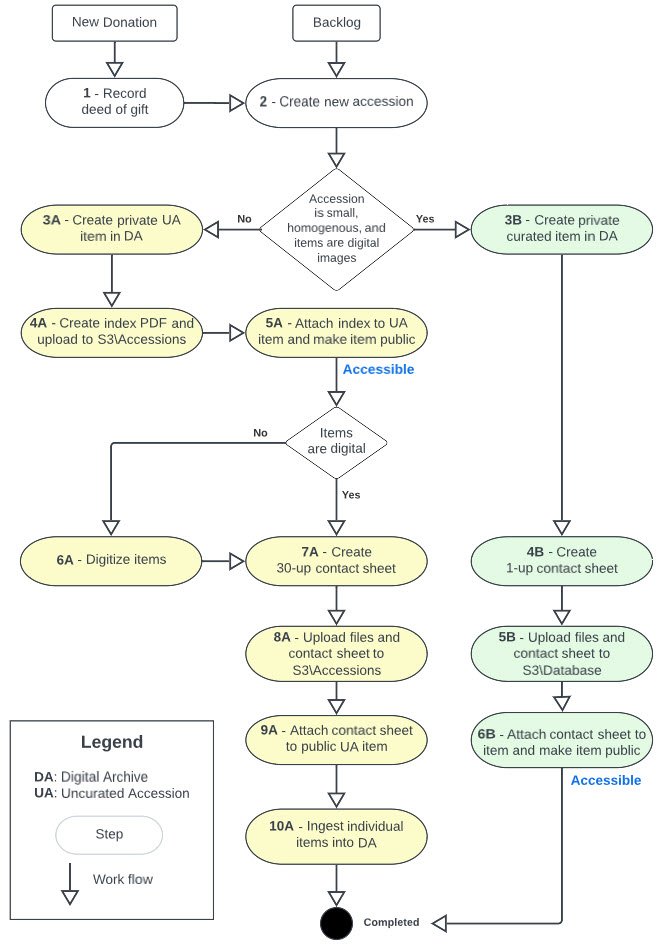
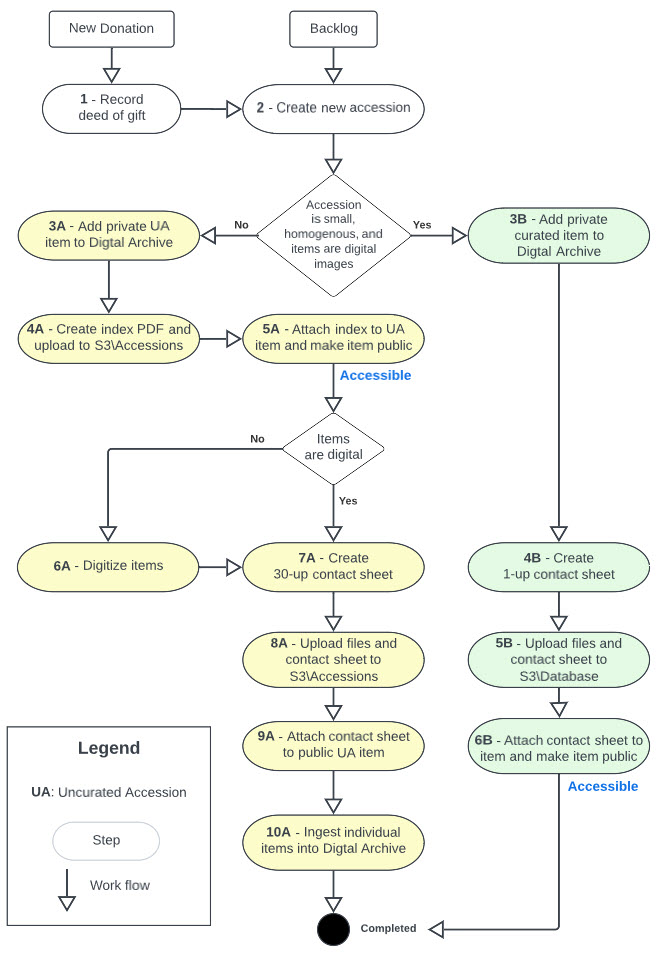
Updates.

diff --git a/digital-archive/docs/archivist/accessioning.md b/digital-archive/docs/archivist/accessioning.md
@@ -8,6 +8,8 @@
 At SWHPL, accessioning is the process of transferring archival materials from a donor or from the backlog into the Library's accessions database, and eventually,
 into the Digital Archive where they become publicly accessible.
 
+---
+
 ## Accessioning Goals
 Accessioning is much more than a bookkeeping process. It is how SWHPL assists researchers and honors donors by making contributions accessible to the public as quickly
 as possible. 
@@ -38,6 +40,8 @@ and ingest items into the Digital Archive. Subsequent sections in this documenta
 #### Transferability
 The accessioning process must be such that responsibility for accessioning and the Digital Archive can be transferred to a new archivist with minimal
 dependence on tribal knowledge, that is, unwritten knowledge that resides only in the minds of a few individuals.
+
+---
 
 ## Terminology
 
@@ -125,148 +129,158 @@ Uncurated Accession
 :   An accession containing items that have not yet been individually or collectively curated to derive metadata to describe them.
     Also referred to as a UA.
 
+---
+
 ## Accession components
 The diagram below ties together the discussion and terminology presented thus far. It shows the three kinds of item sources (backlog, new donation, and items created before the accession process was in place), and how those items are associated with accessions and with collections.
 
 ![Accessioning diagram](accessioning-1.jpg)
 
-## Accessioning steps
-The flowchart below shows the sequence of steps that SWHPL archivists perform as part of the accessioning process. The steps at right (shown
-in green) result in creation of a single Digital Archive item for the entire accession. The item's type is set to reflect the nature of
-the content, for example, `Image, Photograph`. The steps at left and in the middle (shown in yellow) also result in creation of a single Digital
-Archive item, but its type is set to `Uncurated Accession`. 
+---
+
+## Accessioning work flow
+The flowchart below shows the sequence of steps in the accessioning process.
+
+-   Yellow steps at left and middle produce a Digital Archive item for an uncurated accession.
+-   Green steps at right produce a curated Digital Archive item for the accession's images. 
+
+The process makes an accession's items publicly accessible very quickly. For an uncurated accession, only the
+index is initially accessible, but it allows the public to search the Digital Archive without having to wait
+for scanning to occur which is usually the most time-consuming step.
 
 ![Accessioning diagram](accessioning-2.jpg)
 
-The steps above show that both items have a contact sheet attached to them, but the uncurated accession item's contact sheet contains 30 thumbnails
-per page whereas each page in the curated item's contact sheet shows a single image. More importantly, the accession process for the curated item
-is complete whereas the ingestion step still awaits the uncurated accession item.
+---
 
-In both cases, the process makes the accession's items publicly accessible as quickly as possible. For the uncurated accession, only the
-index is initially accessible until the items have been scanned, but this allows the public to search the Digital Archive without having to wait
-for scanning to occur which is usually the most time-consuming step.
+## Accessioning steps
+This section explains each step in the accessioning work flow shown in the previous section.
 
-### Explanation of steps
-
+In the explanations below, `####` means the accession number.
 
 1 &ndash; Record deed of gift
-:   Procure a signed and dated gift of deed form from the donor.
+:   Procure a signed and dated deed of gift form from the donor.
 
 2 &ndash; Create new accession
 :   This step results in an accession number which will be needed in subsequent steps.
 
-    -   Add a new row to the Accessions table.
-    -   Provide values for every field for which information is available.
-    -   Write the accession number on the deed of gift form if one exists.
+    -   Open the **_New Accession Form_** in Airtable (shown in the [Accessions table](#accessions-table) section below.
+    -   Fill in all required fields.
+     -  For accessions from the archival hard drive, use the form's **_Digital Files_** selector to
+        choose the folders that are part of new accession.
+   -   Add the accession number to the deed of gift form.
 
-3A &ndash; Create private UA item in DA
+---
+
+3A &ndash; Add private UA item to Digital Archive
 :   This step results in an item identifier number which will be needed in subsequent steps.
 
     -   [Add a new item](/archivist/items/#add-a-new-item) to the Digital Archive and leave it set to
         [private](/archivist/special-features-archivist/#private-metadata-fields).
     -   Set the item's Type to `Uncurated Accession`.
     -   Set the item's Accession # to the accession number.
+    -   Provide as much metadata in other fields as is known about the accession's contents.
 
 4A &ndash; Create index PDF and upload to S3\Accessions
-:   The real work of accessioning occurs in this step. The archivist needs to assess the items in the accession and
-    create a table in a Word document that lists the contents of the accession. Depending on the nature of the
-    accession and how much time the archivist has, the table may be complete and detailed, or it may be sparse, only
+:   The real work of accessioning occurs in this step. The archivist assesses the items in the accession and
+    creates a table in a Word document that lists the contents of the accession. Depending on information available,
+    the table may be complete and detailed, or it may be sparse, only
     identifying the most significant items in the accession.
 
     When creating the index, use as many relevant keywords as possible since the text in the index will be searchable.
-    What is, or is not, in the index will determine whether someone will be able to search for and find something of
+    The words in the index will determine whether someone will be able to search for and find something of
     interest in the accession.
 
-    In the sub-steps that follow `####` means the accession number.
-
-    -   Create the index as a Word document.
+    -   Create the index as a Word document named `accession-index-####.docx`.
     -   Save the index as a PDF file named `accession-index-####.pdf`.
     -   Create a new S3 folder named `S3\Accessions\####`.
-    -   Upload the PDF file, but not the Word document, to the S3 folder.
+    -   Upload the PDF and Word files to the S3 folder.
 
 5A &ndash; Attach index to UA item and make item public
-:   
+:   This step makes the UA's index PDF publicly accessible.
 
-    -   In the Digital Archive, [edit the item](/archivist/items/#edit-an-item) created in step 3A above.
-    -   Go to the **_Files_** tab. The **_Files_** page should display the contents of the S3 accession folder created in step 4A above.
-    -   Check the box for the index PDF file uploaded in step 4A above.
+    -   In the Digital Archive, [edit the item](/archivist/items/#edit-an-item) created in step 3A.
+    -   Go to the **_Files_** tab to see the contents of `S3\Accessions\####` created in step 4A.
+    -   Check the box for the index PDF file uploaded in step 4A.
     -   Make the item public.
     -   Save the item.
     -   Verify that the index PDF appears as the item's image.
-    -   Update the accession in the Accessions table to indicate that it's next step is either scanning or creating a contact sheet.
-
-    Depending on the importance of the accession, the archivist may continue to the next step or mark the accession in the work queue
-    as being Done, causing the accession to disappear from the work queue until it is added back at some point in the future. Even
-    if work on this accession temporarily stops, it is now accessible by virtue of the fact that its index is searchable in the
-    Digital Archive.
+    -   Update the Accessions table to set the accession's Next Step to scanning or contact sheet.
 
 6A &ndash; Digitize items
 :   Scan or photograph the items in the accession to create digital files. Name the files according to their identifiers in the index
-    file created in step 4A above.
+    file created in step 4A.
 
 7A &ndash; Create 30-up contact sheet
-:   Run the contact sheet app to create a PDF file containing thumbnails of the items in the accession's S3 folder.
+:   This step creates a PDF file containing thumbnails of the accession's items.
 
     -   Go to the folder containing the digitized items.
-    -   Remove any files that you don't want to include in the contact sheet.
+    -   Remove any files that should not appear in the contact sheet.
     -   Run the contact sheet app and choose 30-up as the contact sheet type.
-    -   The app will save the file as `accession-contact-sheet-####.pdf` where `####` is the accession number
+    -   The app will save the file as `accession-contact-sheet-####.pdf`.
 
 8A &ndash; Upload files and contact sheet to `S3\Accessions`
-:   Upload the files and the contact sheet PDF to `S3\Accessions\####` where `####` is the accession number.
+:   Upload the accessions files and the contact sheet to `S3\Accessions\####`.
 
 
 9A &ndash; Attach contact sheet to public UA item
-:   
+:   This step makes thumbnails of the accession's images publicly accessible.
 
-    -   In the Digital Archive, [edit the item](/archivist/items/#edit-an-item) created in step 3A above.
-    -   Go to the **_Files_** tab. The **_Files_** page should display the contents of the S3 accession folder created in step 4A above.
-    -   Check the box for the contact sheet PDF file uploaded in step 7A above.
+    -   In the Digital Archive, [edit the item](/archivist/items/#edit-an-item) created in step 3A.
+    -   Go to the **_Files_** tab to see the contents of `S3\Accessions\####` created in step 4A.
+    -   Check only the box for the contact sheet PDF file uploaded in step 8A.
     -   Save the item.
     -   Verify that the contact sheet appears as the item's image.
-    -   Update the accession in the Accessions table to indicate that it's next step is ingestion.
+    -   Update the Accessions table to set the accession's Next Step to ingestion.
 
-10A &ndash; Ingest individual items into DA
-:   At this point, accessioning is complete and the work of curating occurs in this step.
-    For most accessions, only some of the items should be ingested into the Digital Archive as individual items.
+10A &ndash; Ingest individual items into Digital Archive
+:   At this point, accessioning is complete and the work of curating begins.
+    For most accessions, only the most important items wll be ingested into the Digital Archive as individual items.
 
     One criterion for ingestion is whether there is sufficient knowledge of an item to provide metadata that distinguishes
-    the item from other items. Typically this information comes from the index or other supplementary documentation
-    that is included with the accession, but if there is insufficient information, it may be necessary to research the item
+    the item from other items. Typically, this information comes from the index or other supplementary documentation
+    that is included with the accession, but it may be necessary to research the item
     to obtain additional information.
 
-3B &ndash; Create private curated item in DA
+---
+
+3B &ndash; Add private curated item to Digital Archive
 :   This step results in an item identifier number which will be needed in subsequent steps.
 
     -   [Add a new item](/archivist/items/#add-a-new-item) to the Digital Archive and leave it set to
         [private](/archivist/special-features-archivist/#private-metadata-fields).
     -   Set the item's Type and Subject based on the contents of the accession.
     -   Set the item's Accession # to the accession number.
+    -   Provide as much metadata in other fields as is known about the accession's contents.
 
 4B &ndash; Create 1-up contact sheet
-:   Run the contact sheet app to create a PDF file containing the item's images.
+:   This step creates a PDF file containing large images of the accession's items.
 
     -   Go to the folder containing the digitized items.
-    -   Remove any files that you don't want to include in the contact sheet.
+    -   Remove any files that should not appear in the contact sheet.
     -   Run the contact sheet app and choose 1-up as the contact sheet type.
-    -   The app will save the file as `item-######.pdf` where `######` is the identifier number from step 3B above.
+    -   The app will save the file as `item-######.pdf` where `######` is the identifier from step 3B.
+
+    As an alternative to a contact sheet, an archivist could attach individual web-sized images files and 
+    and upload those in step 5B. Creating the contact sheet is simply more expedient.
 
 5B &ndash; Upload files and contact sheet to `S3\Database`
-:   
-    -   Create a new S3 folder named `S3\Database\####` where `####` and `######` are the item's identifier number
+:   This step creates an S3 folder for the curated item and uploads files.
+
+    -   Create a new S3 folder named `S3\Database\####\#####` where `####` and `######` are the item's identifier number
         grouping and identifier. For example, if the identifier is `12345`, the grouping is `12000` and
         the identifier is `12345`.
     -   Upload the files and the contact sheet PDF to the newly created S3 folder.
 
 6B &ndash; Attach contact sheet to item and make item public
-:   
+:   This step makes the accession's images publicly accessible.
 
-    -   In the Digital Archive, [edit the item](/archivist/items/#edit-an-item) created in step 3B above.
-    -   Go to the **_Files_** tab. The **_Files_** page should display the contents of the S3 database folder created in step 5B above.
-    -   Check the box for the contact sheet PDF file uploaded in step 5B above.
+    -   In the Digital Archive, [edit the item](/archivist/items/#edit-an-item) created in step 3B.
+    -   Go to the **_Files_** tab to see the contents of `S3\Database\####\#####` created in step 5B.
+    -   Check the box for the contact sheet PDF file uploaded in step 5B.
     -   Save the item.
     -   Verify that the contact sheet appears as the item's image.
-    -   Update the accession in the Accessions table to indicate that it's next step is Completed.
+    -   Update the Accessions table to set the accession's Next Step to completed.
+
 
 ## Accessions Database
 SWHPL uses [Airtable](https://www.airtable.com/) as its accessions database to record information about accessions and related information.
@@ -274,10 +288,27 @@ The diagram below shows the five tables in the database followed by an explanati
 
 ![Accessioning diagram](accessioning-3.jpg)
 
+The lines connecting the tables indicate the relationships between tables.
+
+-   The Tasks table has a many-to-one relationship with the Accessions table because more than one task can
+    be associated with an accession. For example, one archivist could be indexing the accession while another
+    is performing research on it.
+-   The Donors table has a one-to-many relationship with the Accessions table because a donor can give more than one accession.
+-   The Digital Files table has a many-to-one relationship with the Accessions table because more than one folder of
+    digital files can be associated with an accession.
+-   The Deaccessions table has a one-to-one relationship with the Accessions table because only one record in
+    the Accessions table can have a corresponding record in the Deaccessions table.
+
 ### Accessions table
 The Accessions table contains one record for each SWHPL accession. The records contain fields for storing information that is
 specific to a single accession such as the Id of the donor, but not information about the donor. The donor information is kept
 in the Donor table because the same donor could be associated with more than one accession. 
+
+You add a new accession to the table by opening the **_New Accession Form_** in Airtable and then filling out the fields
+shown in the screenshot below. Always add new records using the form, not by editing the table directly, because the
+form ensures that required fields are filled in.
+
+![Accessioning diagram](accessioning-9.jpg)
 
 The screenshot below shows just some of the fields and a few of the rows of the Accessions table. Note the **_Next Step_** field
 which indicates where each accession is within the accessioning process.
@@ -288,27 +319,55 @@ which indicates where each accession is within the accessioning process.
 The Donor table contains information about each unique donor. It also shows which accessions the donor has given. You can double-click
 on an accession number to see the information for that accession. SWHPL uses donor ID 1000 to indicate that the donor is unknown.
 
+You add a new donor to the table by opening the **_New Donor Form_** in Airtable and then filling out the fields.
+Always add new records using the form, not by editing the table directly, because the
+form ensures that required fields are filled in.
+
 The screenshot below shows some of the fields and a few of the rows of the Donor table.
 ![Accessioning diagram](accessioning-7.jpg)
 
-### Digital File Locations table
+### Digital Files table
+The Digital Files table is the largest SWHPL table. It contains more than 3,500 rows representing the more than 3,500 folders
+on the archival hard drive. Little by little, SWHPL archivists create accessions from the folders, chipping away at the enormous backlog.
+In the process they discover folders that can be rejected for various reasons such as being redundant or containing files with insufficient
+quality. The table contains a **_Rejected_** field (not shown in the screenshot below) to record the reason a folder was rejected.
+
+An important use of the Digital Files table at SWHPL is to track which folders on the archival hard drive have been uploaded
+to S3 as part of the accessioning process. When every row in the table has an accession associated with it (or has been rejected), the
+entire backlog of digital files will have finally been accessioned and stored in the cloud.
 
 The screenshot below shows some of the fields and a few of the many rows of the Digital File Location table.
 ![Accessioning diagram](accessioning-8.jpg)
 
 ### Deaccessions table
+The Deaccessions table is used to keep a record of which accessions have been deaccessioned. A deaccessioned record still exists in the
+Accessions table so that information about it is never lost, but the Accessions table is normally filtered to hide records for accessions
+in the Deaccessions table.
+
+!!! warning "Warning"
+    Never deaccession by deleting a record from the Accessions table. Instead, add a record to the Deaccessions table.
+
 The screenshot below shows most of the fields and a few of the rows of the Deaccessions table.
 ![Accessioning diagram](accessioning-6.jpg)
 
-### Work Queue table
-The work queue is used to maintain a relatively short and not overwhelming list of work that is in progress and work to be done in the near
-future. An available resource always know exactly what they should do next.
-s
--   The Work Queue table has a many-to-one relationship with the Accessions table to allow one or more tasks in the queue
-    to be associated with the same accession.
+### Tasks table
+The Tasks table is used to achieve the [manageability goal](/archivist/accessioning/#manageability) described earlier.
+The purpose of the Task table is to allow the curator to quickly see who is doing what, and to make it easy for archivists
+to know what they should be working on.
 
-The screenshot below shows most of the fields and rows that are typically visible in the Work Queue table at any given
-time.
+The Task table should always reflect reality based on the availability of resources. For example, if at the present time no
+archivists are available to work, there should be no In Progress tasks. If a task was in progress when an archivist
+became unavailable, its priority should be lowered (perhaps to Next or High) to record its importance for when resources
+become available again.
+
+You add a new task to the table by opening the **_New Task Form_** in Airtable and then filling out the fields
+as shown below.
+
+![Accessioning diagram](accessioning-10.jpg)
+
+The screenshot below shows the fields and rows that are typically visible in the Tasks table at any given
+time. You want to minimize the number of In Progress and Next tasks so that the table
+only shows works that is actually being performed or is slated to be performed very soon.
 
 ![Accessioning diagram](accessioning-4.jpg)
 
